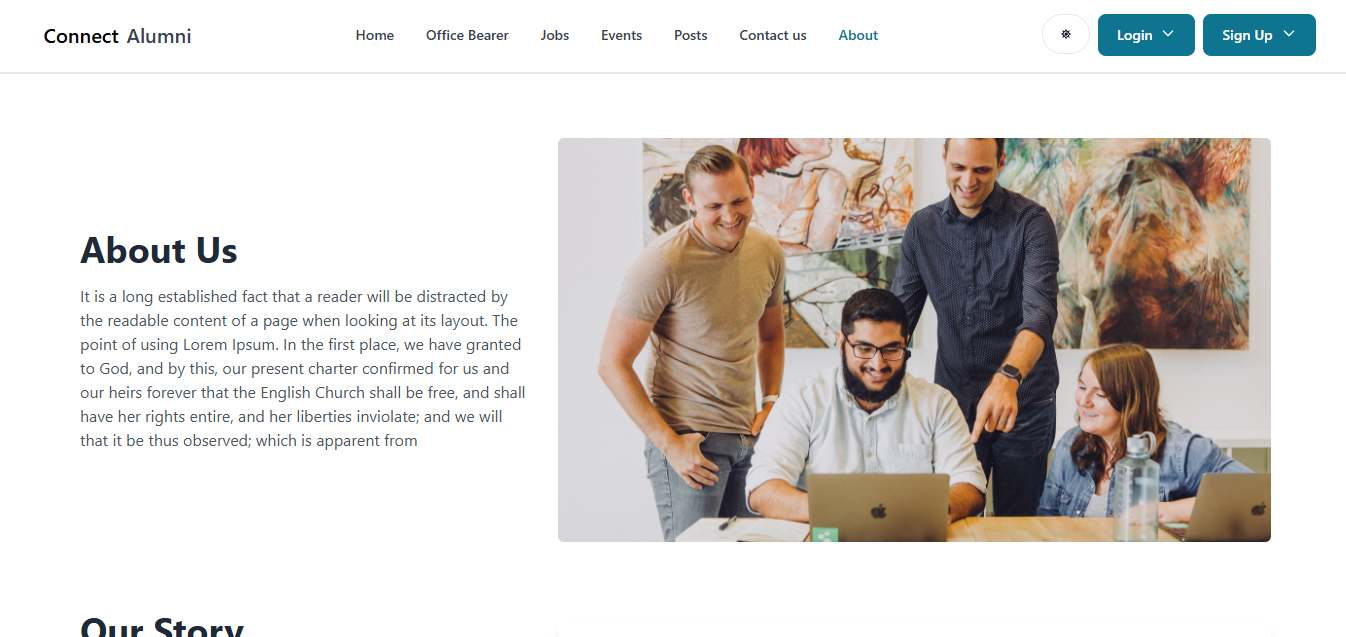
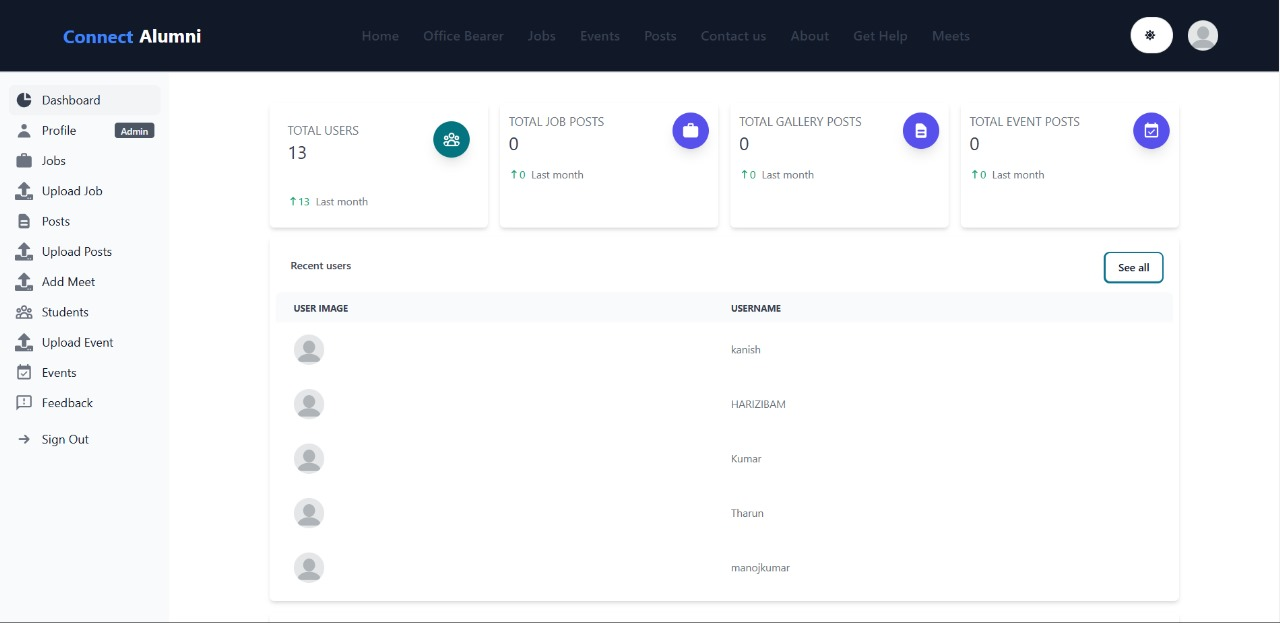
upadate images in project

diff --git a/src/components/Projects.tsx b/src/components/Projects.tsx
@@ -9,6 +9,9 @@ import project3 from "@/assets/project3.jpg";
 import project4 from "@/assets/project4.jpg";
 import project5 from "@/assets/project5.jpg";
 import project6 from "@/assets/project6.jpg";
+import project7 from "@/assets/project7.jpg";
+import project8 from "@/assets/project8.jpg";
+import project9 from "@/assets/project9.jpg";
 
 const projects = [
   {
@@ -38,7 +41,7 @@ const projects = [
     duration: "November 2024 - December 2024",
     role: "Frontend Developer",
     repo: "https://sridharan-g-2881.github.io/frontend/",
-    images: [project5, project6],
+    images: [project5, project6,project7, project8, project9],
     description:
       "Developed an intelligent web platform to connect students and alumni of the Technical Education Department, Government of Rajasthan. The system enables seamless networking, communication, and knowledge sharing to support career guidance and professional growth.",
     techStack: ["React", "Express.js", "Node.js", "MongoDB"],